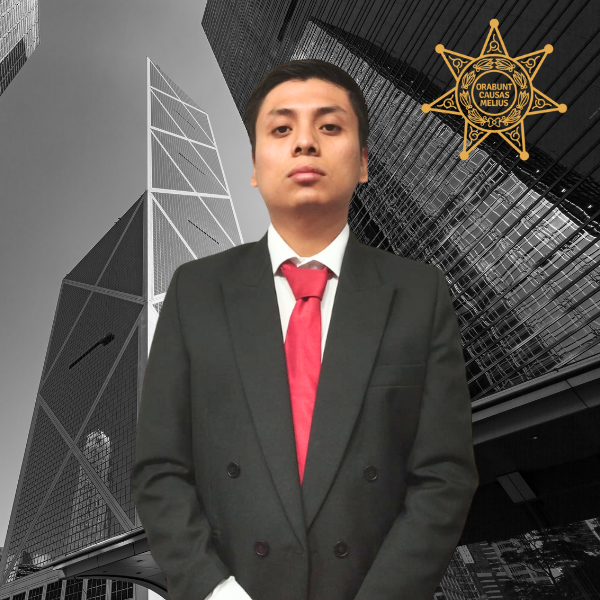
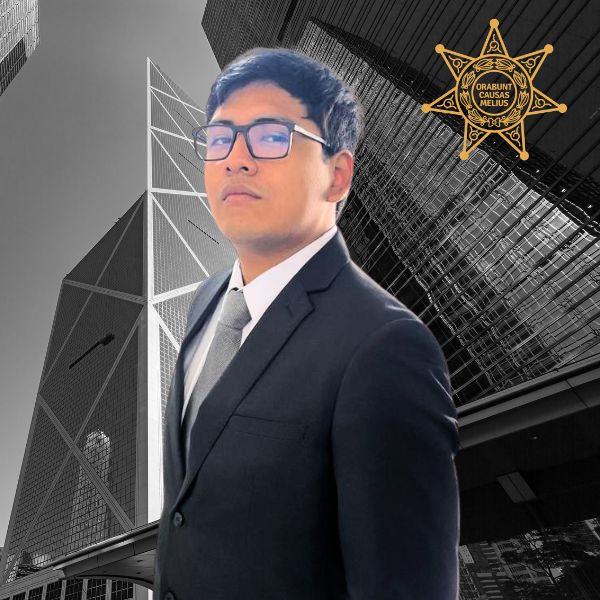
nuevo equipo
nuevo equipo

diff --git a/index.html b/index.html
@@ -262,7 +262,7 @@
       </div>
       <div class="col-lg-2 col-md-4">
         <div class="member" data-aos="zoom-in" data-aos-delay="500">
-          <img src="assets/img/chefs/chefs-6.png" class="img-fluid" alt="">
+          <img src="assets/img/chefs/chefs-5.png" class="img-fluid" alt="">
           <div class="member-info">
             <div class="member-info-content">
               <h4>Jorge Axel Ortega Marcos</h4>
@@ -279,10 +279,27 @@
       </div>
       <div class="col-lg-2 col-md-4">
         <div class="member" data-aos="zoom-in" data-aos-delay="300">
-          <!-- <img src="assets/img/chefs/chefs-3.jpg" class="img-fluid" alt=""> -->
+          <img src="assets/img/chefs/chefs-3.png" class="img-fluid" alt="">
           <div class="member-info">
             <div class="member-info-content">
-              <!-- <h4>Anjhelo Mauricio Mayuri Idrogo</h4> -->
+              <h4>Arleth  Guadalupe Rojas Tataje</h4>
+              <span>Abogada</span>
+            </div>
+            <div class="social">
+              <a href=""><i class="bi bi-twitter"></i></a>
+              <a href=""><i class="bi bi-facebook"></i></a>
+              <a href=""><i class="bi bi-instagram"></i></a>
+              <a href="https://www.linkedin.com/company/corporaci%C3%B3n-jur%C3%ADdica-casma-y-asociados/about/"><i class="bi bi-linkedin"></i></a>
+            </div>
+          </div>
+        </div>
+      </div>
+      <div class="col-lg-2 col-md-4">
+        <div class="member" data-aos="zoom-in" data-aos-delay="400">
+          <img src="assets/img/chefs/chefs-4.png" class="img-fluid" alt="">
+          <div class="member-info">
+            <div class="member-info-content">
+              <h4>Flavio Augusto Parra Chacaliaza</h4>
               <span>Abogado</span>
             </div>
             <div class="social">
@@ -296,10 +313,10 @@
       </div>
       <div class="col-lg-2 col-md-4">
         <div class="member" data-aos="zoom-in" data-aos-delay="400">
-          <!-- <img src="assets/img/chefs/chefs-4.png" class="img-fluid" alt=""> -->
+          <img src="assets/img/chefs/chefs-6.png" class="img-fluid" alt="">
           <div class="member-info">
             <div class="member-info-content">
-              <!-- <h4>Jhonnie Angello Vargas Espinoza</h4> -->
+              <h4>Corporación Jurídica Casma</h4>
               <span>Abogado</span>
             </div>
             <div class="social">
